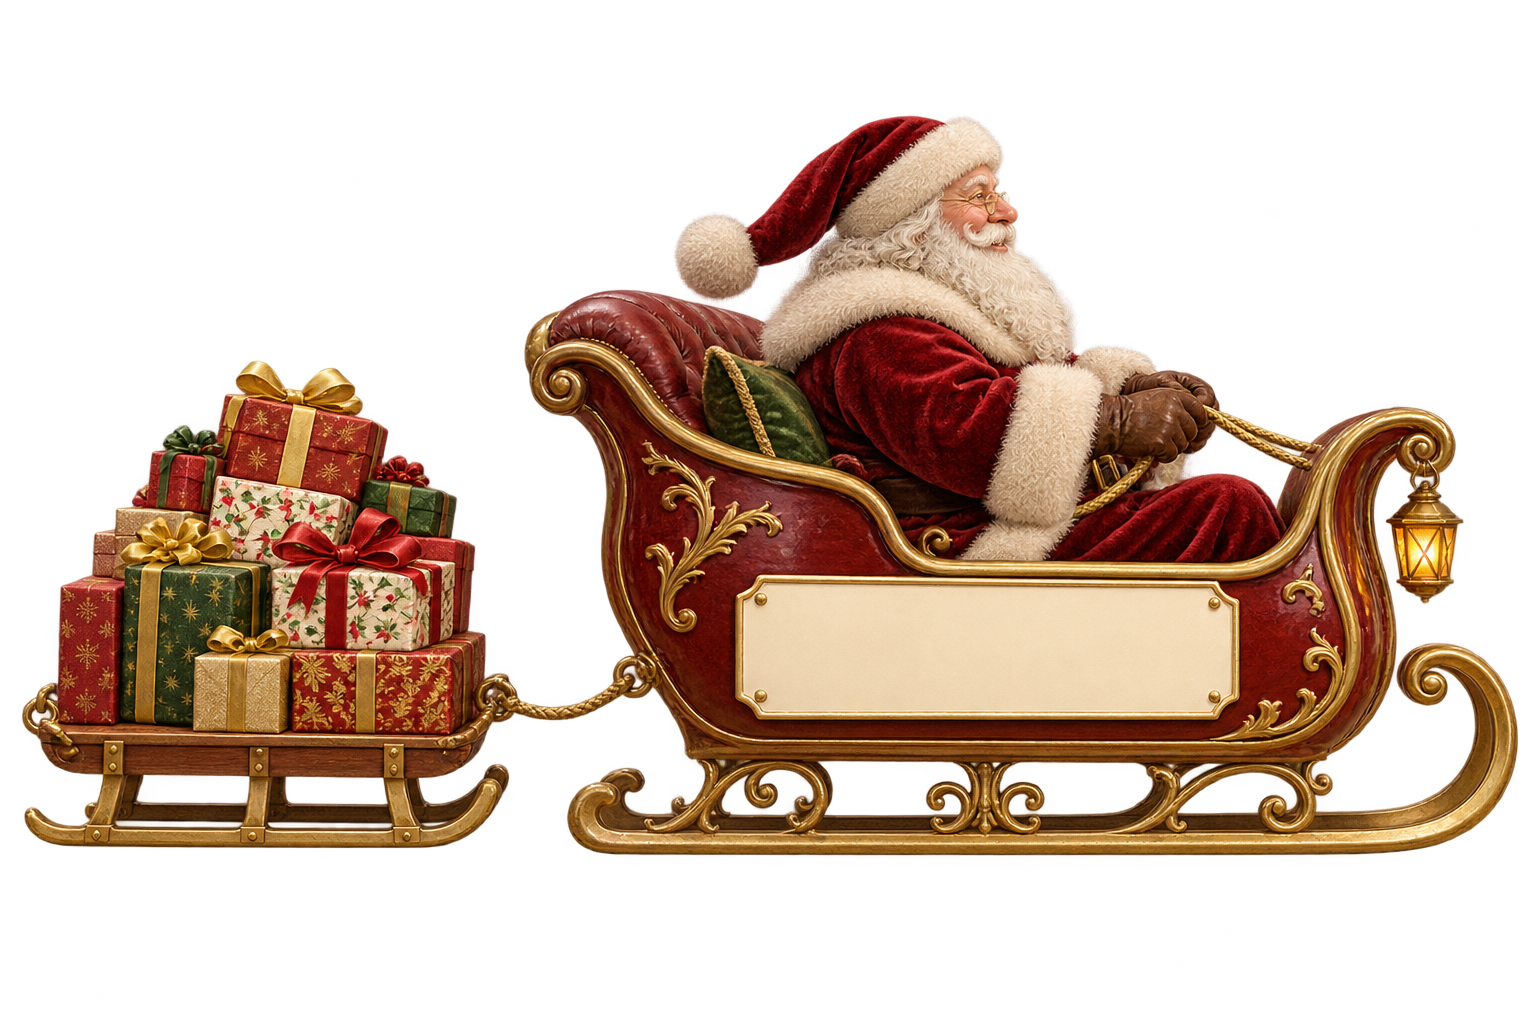
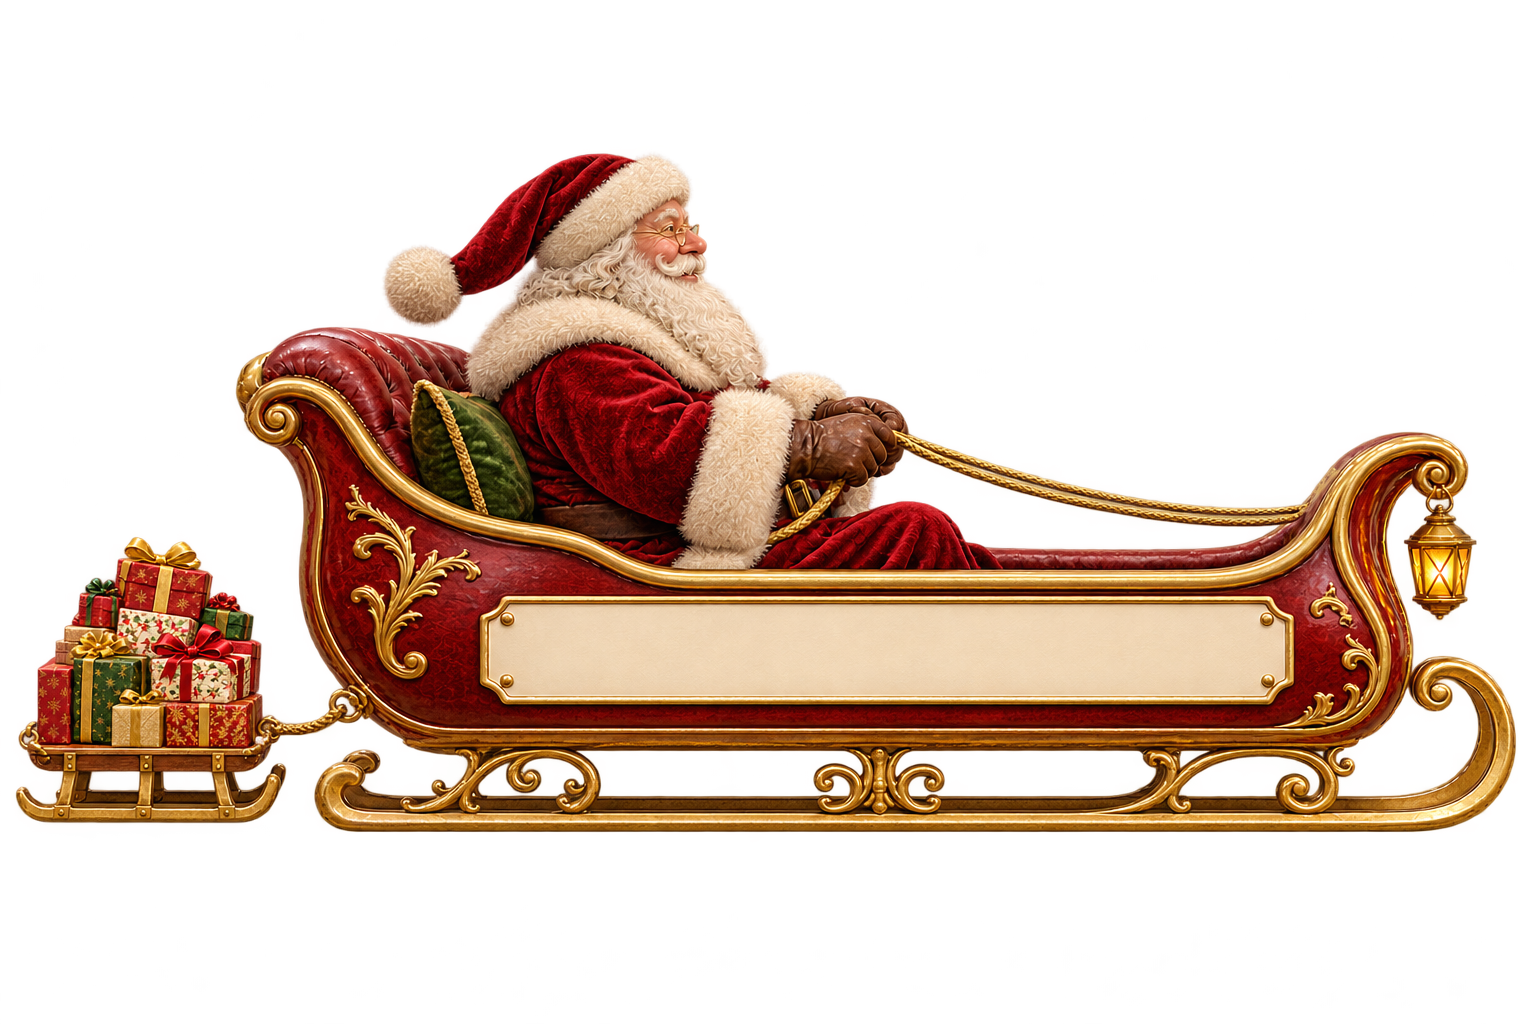
Widen the sleigh plaque within the same overall sprite length

diff --git a/docs/javascripts/pdk.js b/docs/javascripts/pdk.js
@@ -671,10 +671,10 @@ document.addEventListener("DOMContentLoaded", function() {
       ctx.drawImage(artwork, -spriteWidth / 2, -spriteHeight / 2, spriteWidth, spriteHeight);
       ctx.restore();
       // Draw destination text separately so the left-facing version stays readable.
-      const plaqueCentre = spriteWidth * 0.14 * (facingLeft ? -1 : 1);
+      const plaqueCentre = spriteWidth * 0.08 * (facingLeft ? -1 : 1);
       ctx.fillStyle = "#301b15";
       const fontSize = spriteWidth * 0.052;
-      const labelWidth = spriteWidth * 0.28;
+      const labelWidth = spriteWidth * 0.48;
       ctx.font = "bold " + fontSize + "px sans-serif";
       const label = ctx.measureText(stop.label).width <= labelWidth ? stop.label : stop.compact;
       const fittedSize = fontSize * Math.min(1, labelWidth / ctx.measureText(label).width);
